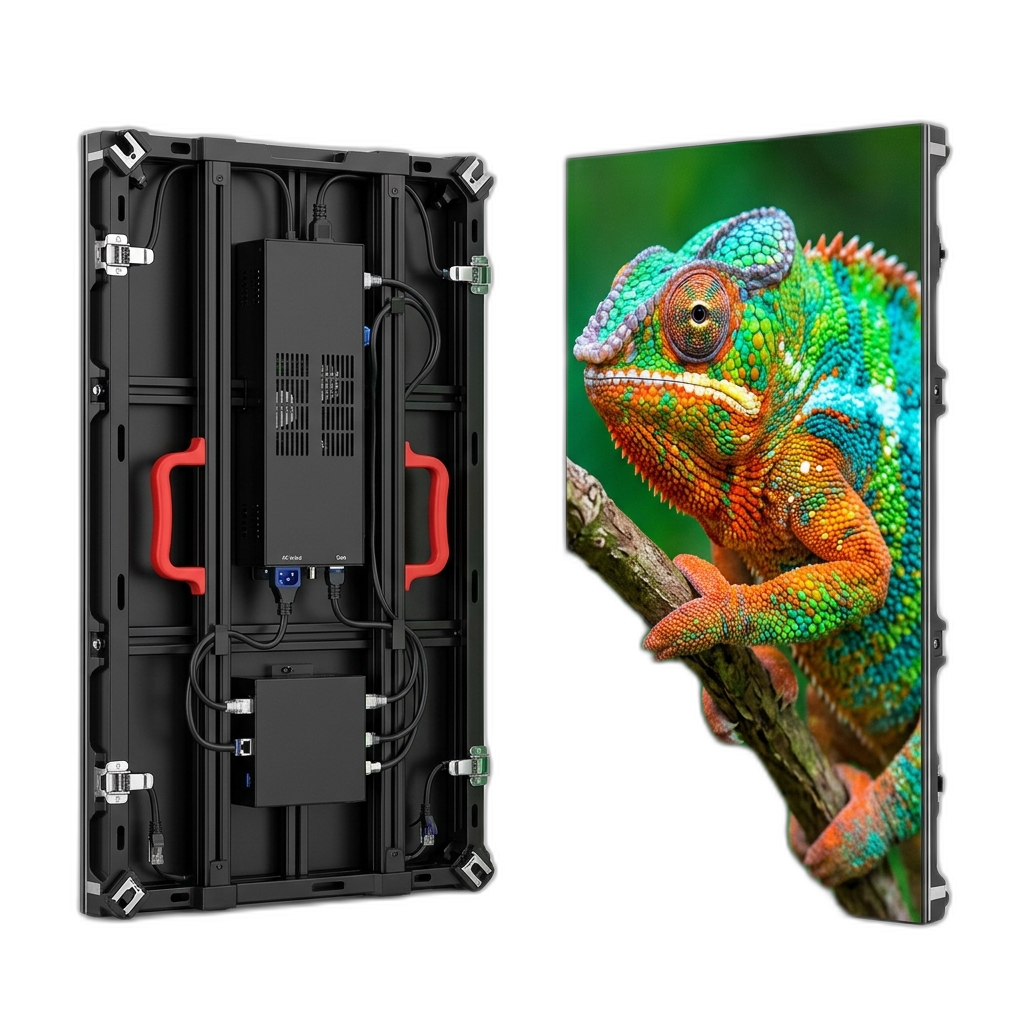
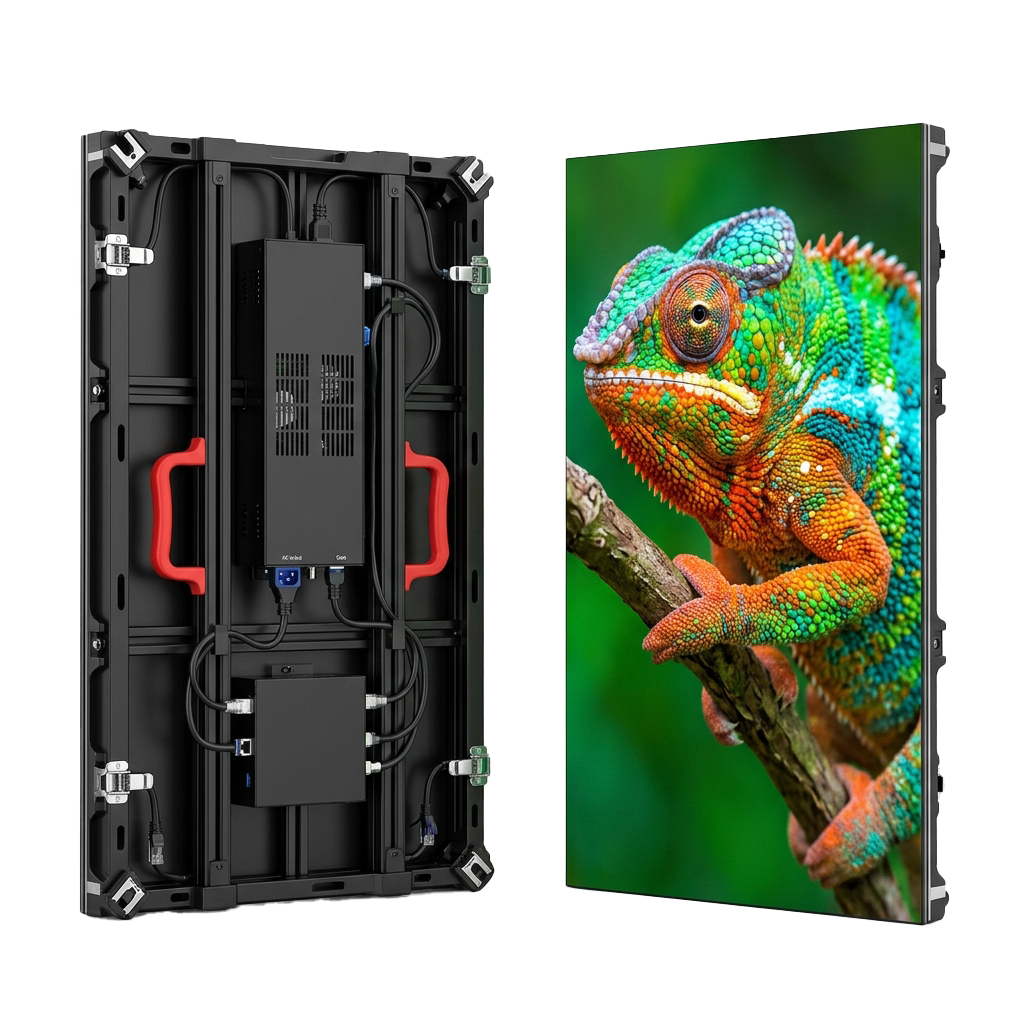
feat(hero): substitui foto capa por versão NEW e aumenta tamanho da imagem

diff --git a/selectled/src/app/[cidade]/page.tsx b/selectled/src/app/[cidade]/page.tsx
@@ -240,12 +240,12 @@ export default async function CityHomePage({ params }: Props) {
                 </h1>
 
                 {/* Foto produto */}
-                <div className="mb-8 -ml-2">
+                <div className="mb-8">
                   {/* eslint-disable-next-line @next/next/no-img-element */}
                   <img
                     src="/images/foto-capa-1.png"
                     alt="Painel de LED Select LED"
-                    style={{ maxHeight: 220, objectFit: "contain", filter: "drop-shadow(0 8px 40px rgba(255,59,48,0.18))" }}
+                    style={{ width: "100%", maxWidth: 460, height: "auto", filter: "drop-shadow(0 12px 48px rgba(255,59,48,0.2))" }}
                   />
                 </div>
 